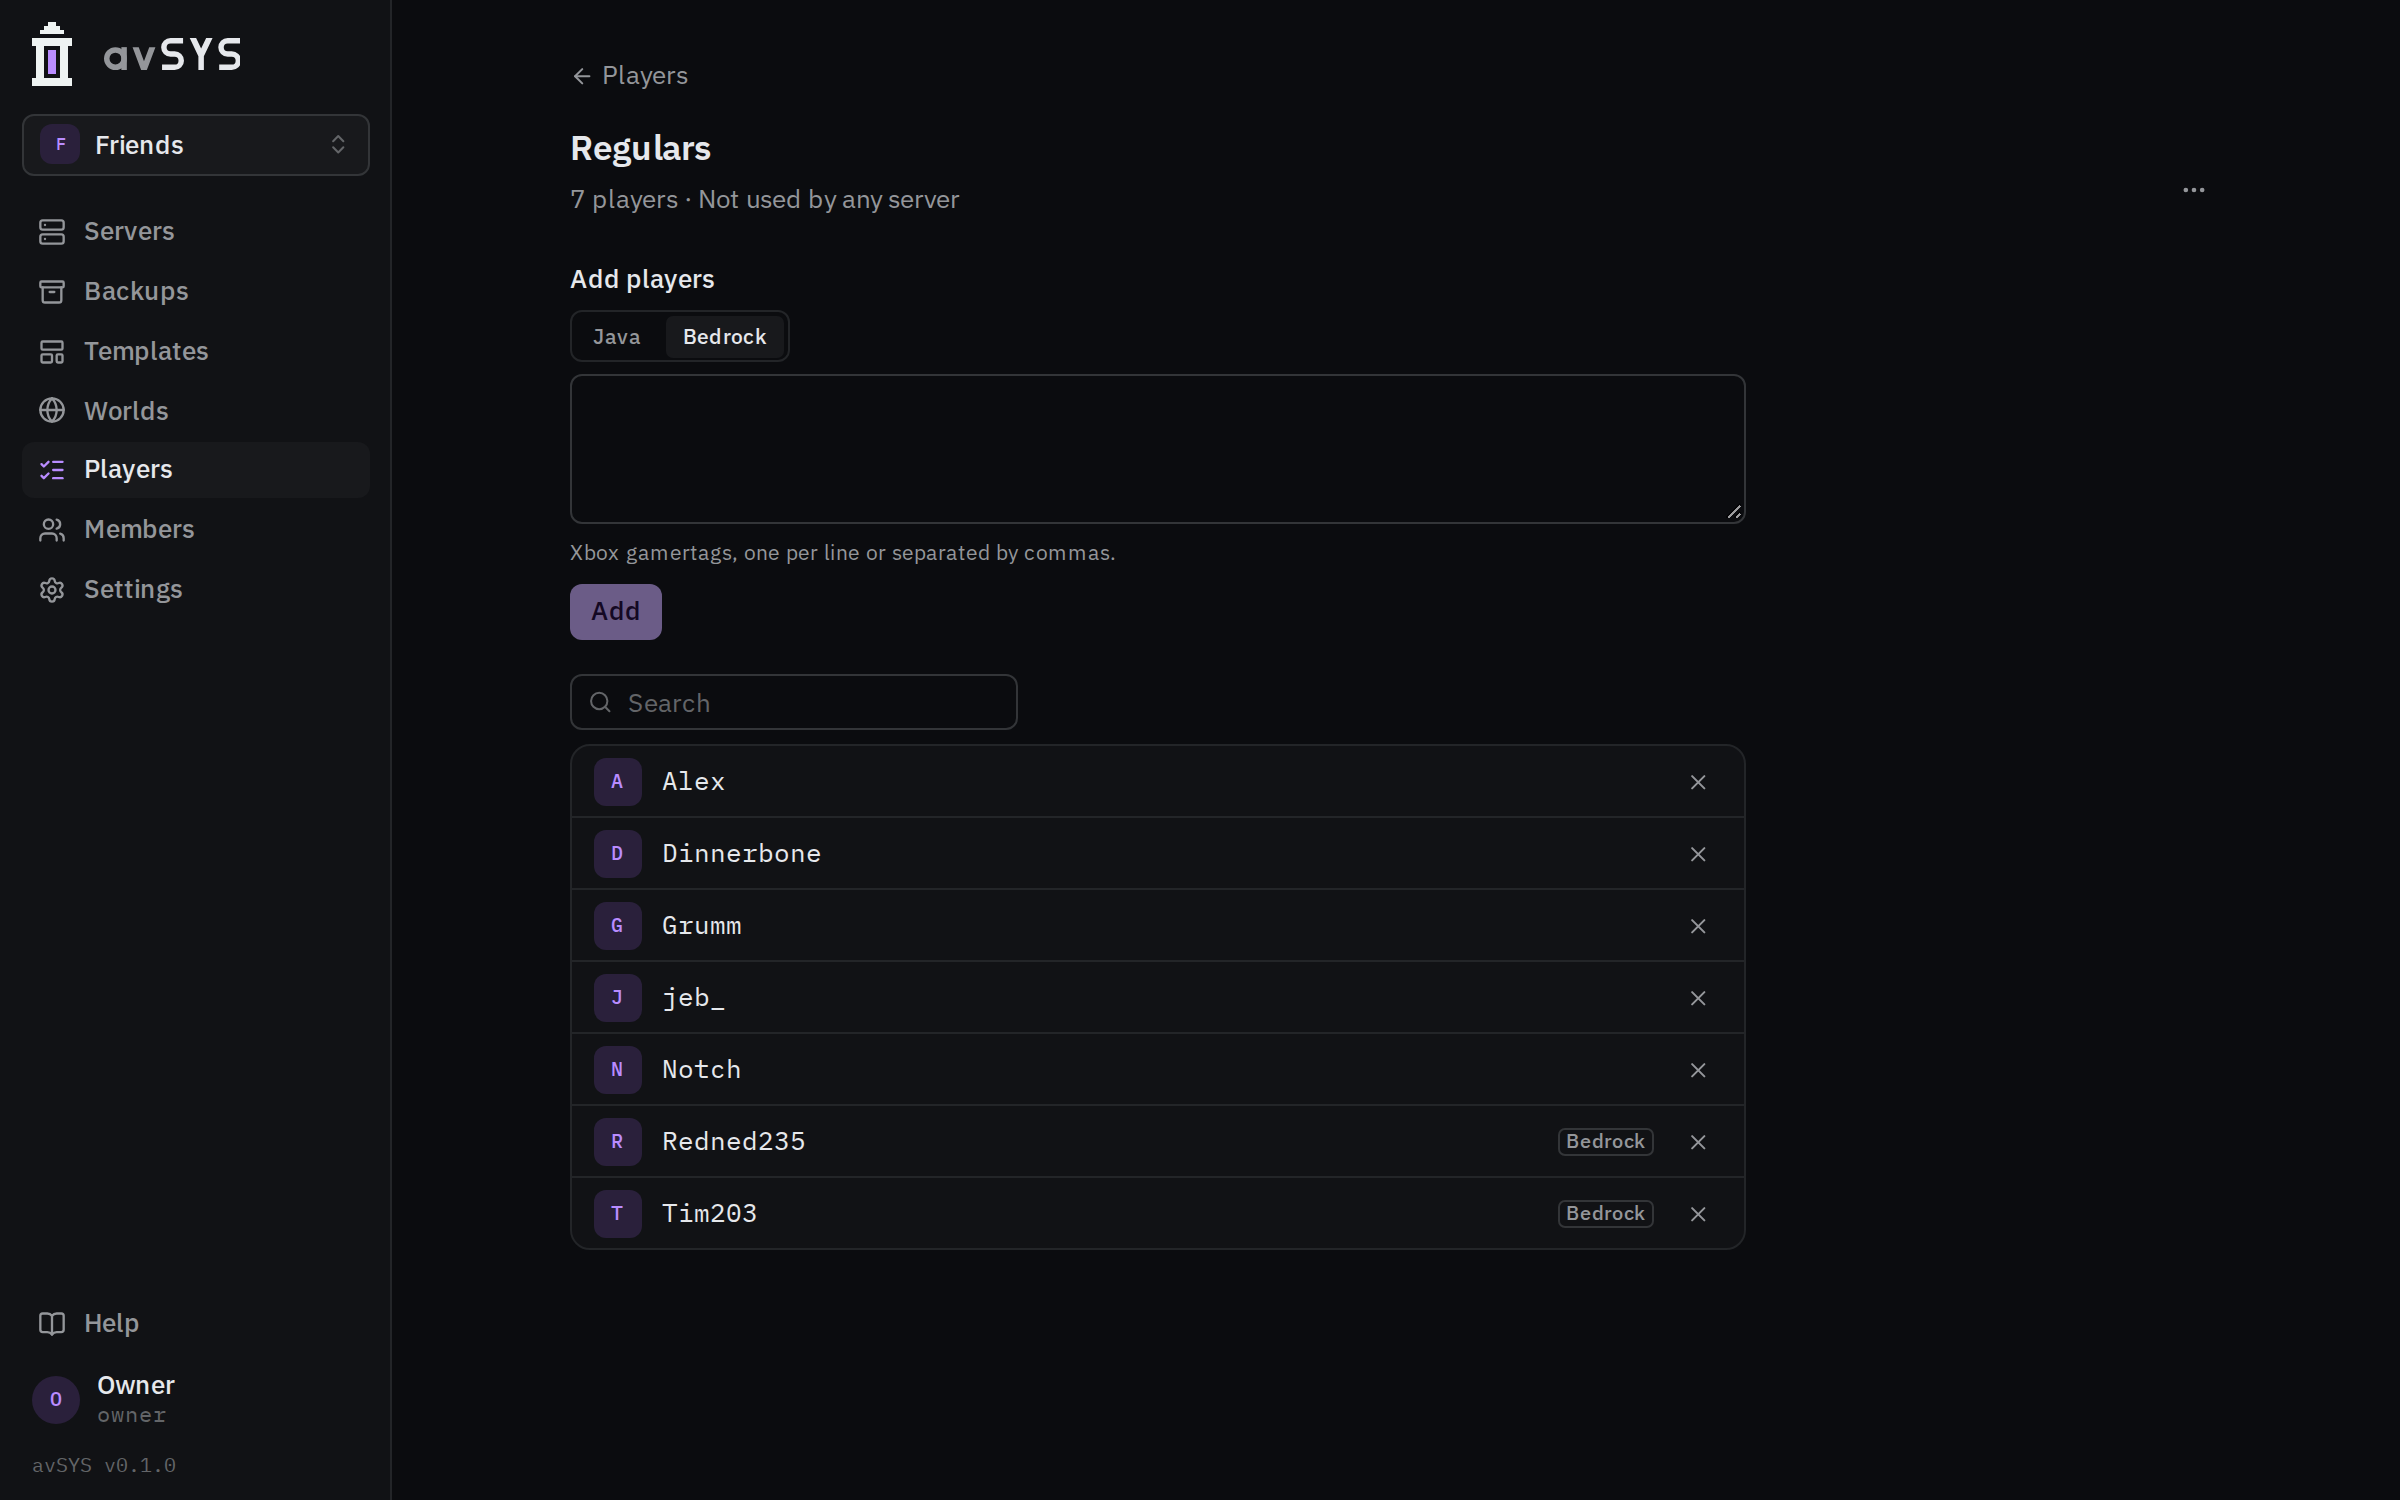
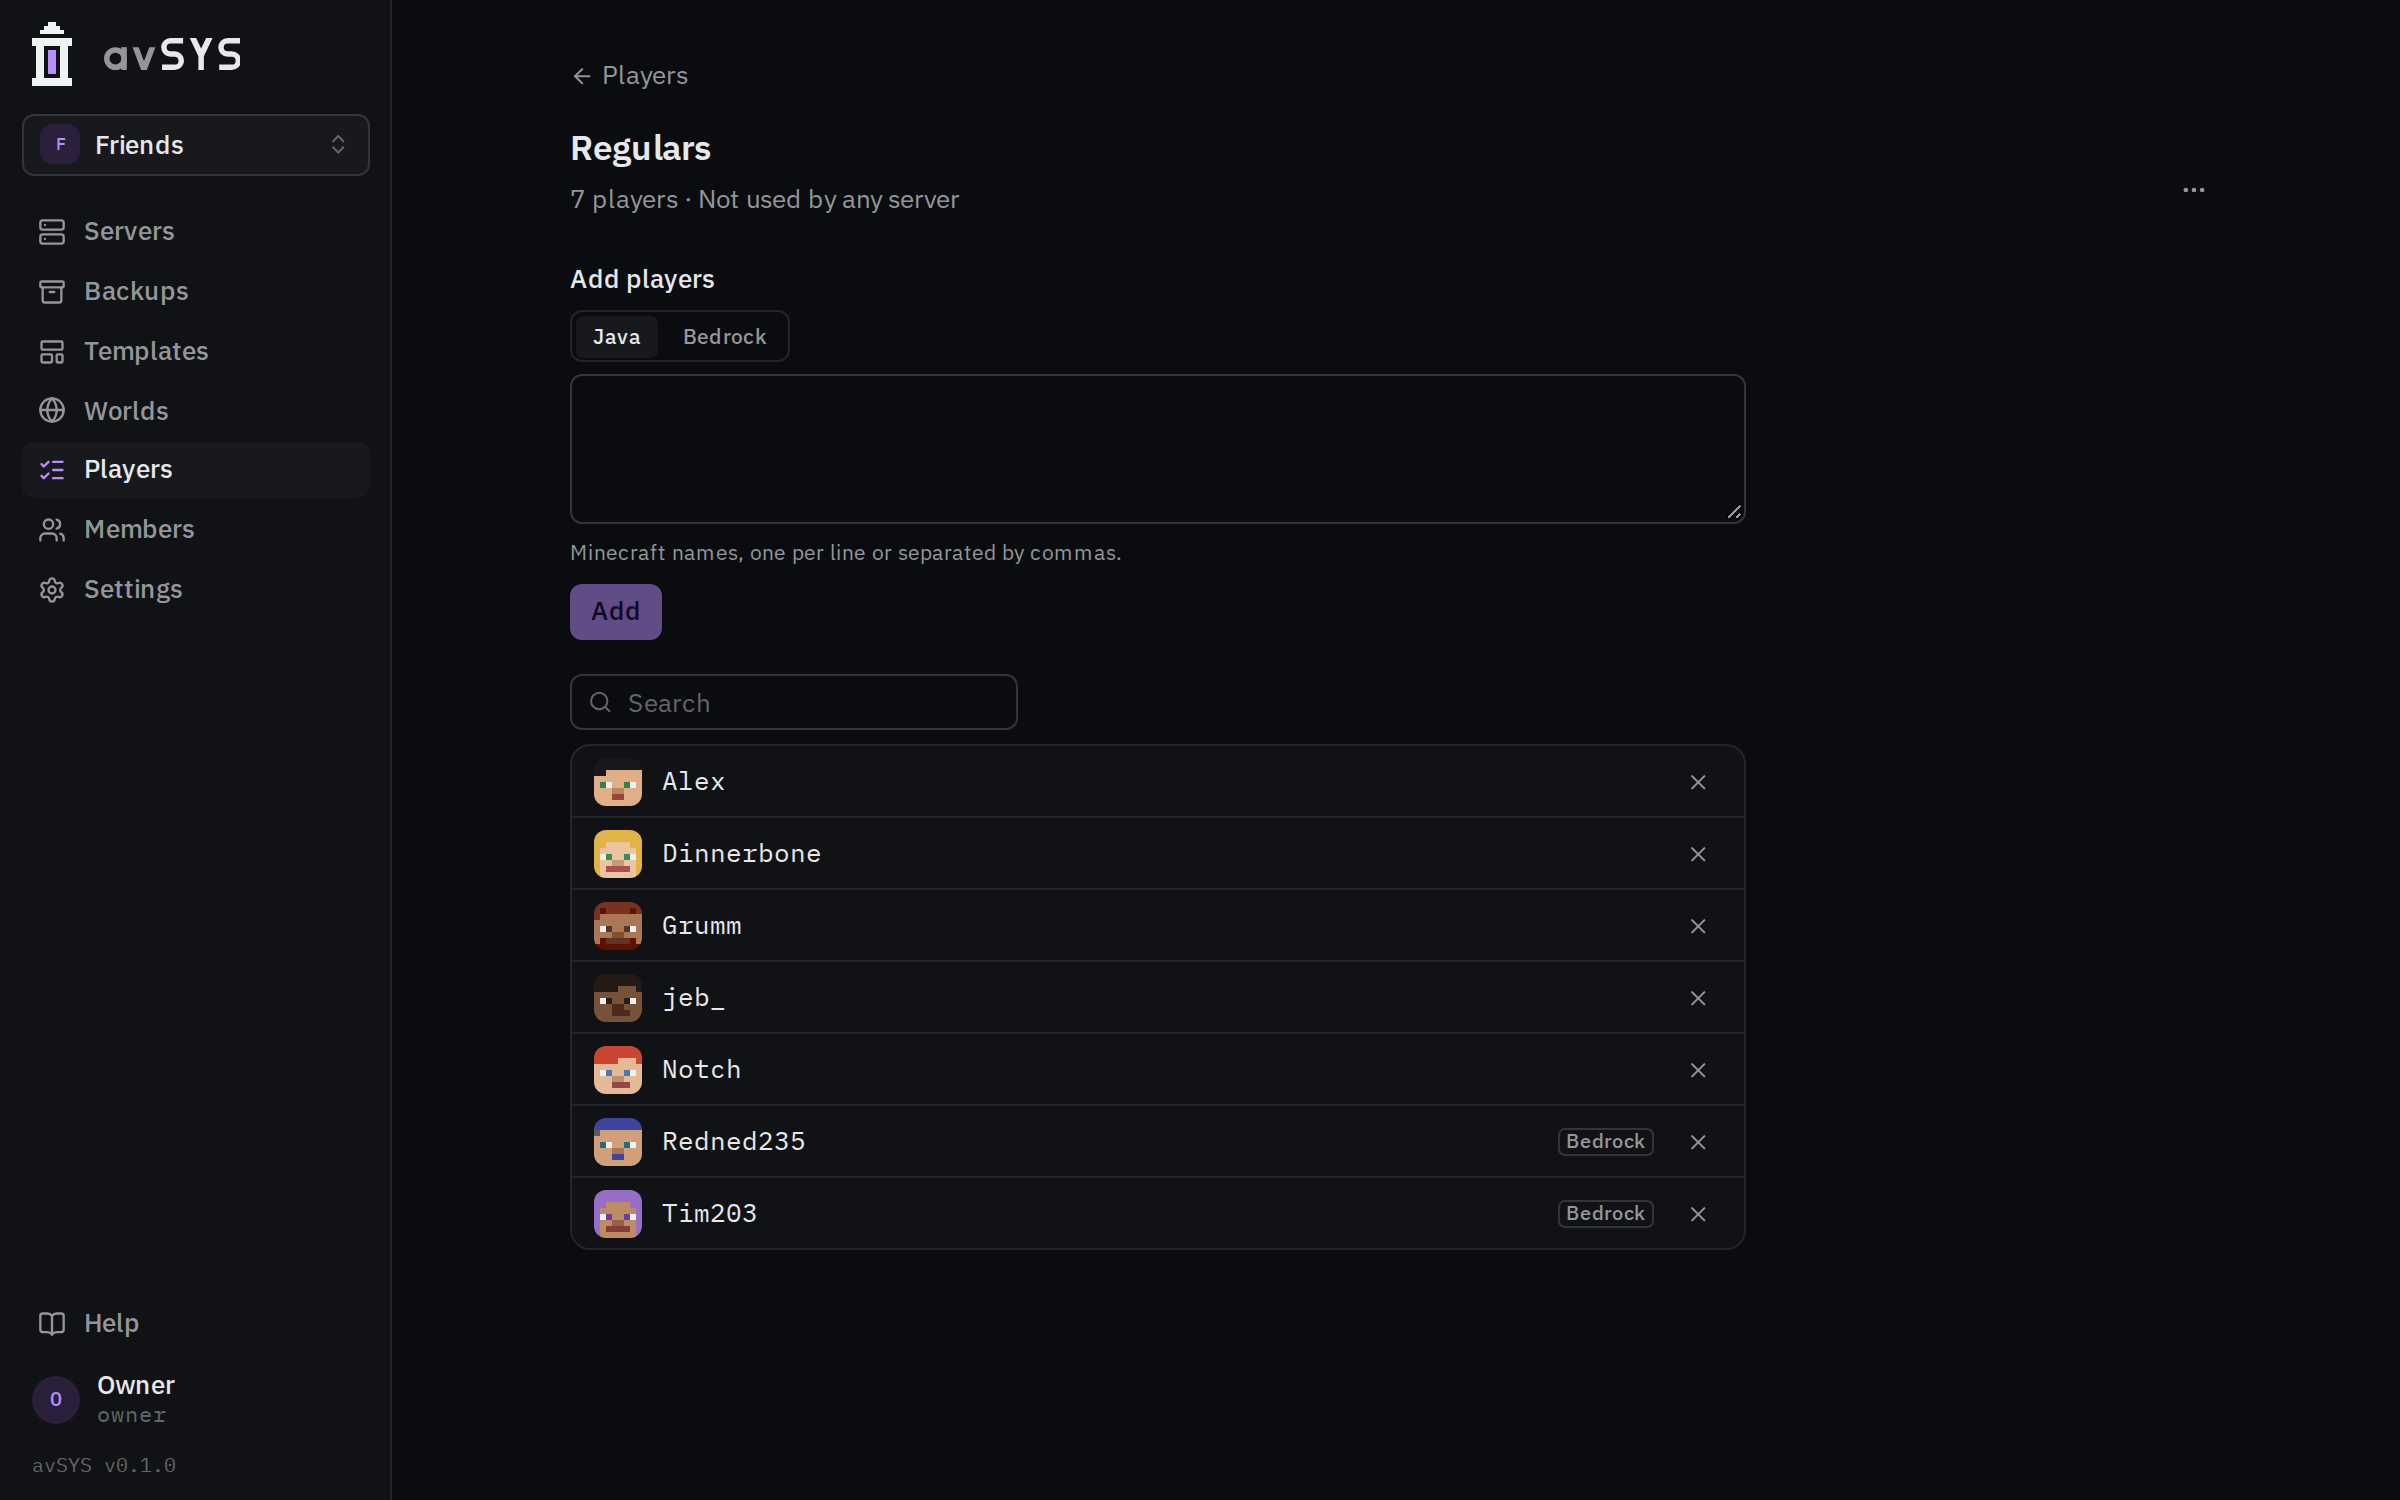
Docs pictures: players have faces, and the panel's sidebar is never cut
The test panel cannot reach Mojang, so players' heads were letters. The
screenshots now answer each head with a face of our own (8 by 8, in
web/screenshots/heads), one per player. The landing cards show each
picture whole, set in from the card's rounded corners, rather than a
closer crop that left out the sidebar.

diff --git a/web/screenshots/docs.spec.ts b/web/screenshots/docs.spec.ts
@@ -1,4 +1,6 @@
 import type { Page } from "@playwright/test";
+import { readdirSync, readFileSync } from "node:fs";
+import { join } from "node:path";
 import { expect, test } from "../tests/panel";
 
 // Pictures of the panel for the documentation, written to docs/images.
@@ -28,8 +30,28 @@ const plugins: [title: string, author: string, description: string, downloads: n
   ["BlueMap", "Blue", "A 3D map of your world, in the browser.", 1_200_000],
 ];
 
+// The test panel cannot reach Mojang for players' skins, so their heads are
+// faces of our own (screenshots/heads, 8 pixels square as the panel makes
+// them): each player one of their own, in the order first asked for.
+const heads = join("screenshots", "heads");
+const faceFiles = readdirSync(heads).sort();
+const faces = new Map<string, Buffer>();
+const faceOf = (uuid: string) => {
+  if (!faces.has(uuid)) faces.set(uuid, readFileSync(join(heads, faceFiles[faces.size % faceFiles.length])));
+  return faces.get(uuid) as Buffer;
+};
+
+/** Waits for this many players' heads to be drawn. */
+const expectFaces = (page: Page, count: number) =>
+  expect
+    .poll(() => page.locator('main img[src*="/players/"]').evaluateAll((imgs) => imgs.filter((i) => (i as HTMLImageElement).naturalWidth > 0).length))
+    .toBe(count);
+
 test.beforeEach(async ({ as, page }) => {
   await as("owner");
+  await page.route("**/api/v1/players/*/head?*", (route) =>
+    route.fulfill({ body: faceOf(new URL(route.request().url()).pathname.split("/").at(-2) ?? ""), contentType: "image/png" }),
+  );
   await page.route("**/api/v1/catalog/modrinth/search?*", async (route) => {
     const res = await (await route.fetch()).json();
     if (/plugin/.test(decodeURIComponent(new URL(route.request().url()).search))) {
@@ -150,18 +172,17 @@ test("content", async ({ page }) => {
   await shot(page, "content-add");
 });
 
-test("players", async ({ page }) => {
-  await page.goto("/o/friends/players");
-  await page.getByRole("button", { name: "New list" }).click();
-  const dialog = page.getByRole("dialog", { name: "New list" });
-  await dialog.getByLabel("Name").fill("Regulars");
-  await dialog.getByLabel("Players").fill("Notch, jeb_, Alex, Dinnerbone, Grumm");
-  await dialog.getByRole("button", { name: "Make list" }).click();
-  await expect(page.getByRole("heading", { name: "Regulars" })).toBeVisible();
-  await page.getByRole("group", { name: "Edition" }).getByRole("button", { name: "Bedrock" }).click();
-  await page.getByLabel("Add players").fill("Tim203, Redned235");
-  await page.getByRole("button", { name: "Add", exact: true }).click();
+test("players", async ({ page, api }) => {
+  const list = await api("owner").post<{ id: string; players: { uuid: string; name: string }[] }>("/orgs/friends/player-lists", {
+    name: "Regulars",
+    names: ["Notch", "jeb_", "Alex", "Dinnerbone", "Grumm"],
+    bedrock: ["Tim203", "Redned235"],
+  });
+  // Faces in the order the list shows them.
+  for (const p of [...list.players].sort((a, b) => a.name.localeCompare(b.name))) faceOf(p.uuid);
+  await page.goto(`/o/friends/players/${list.id}`);
   await expect(page.getByRole("listitem", { name: "Tim203" })).toBeVisible();
+  await expectFaces(page, list.players.length);
   await shot(page, "players");
 });
 

diff --git a/docs/.vitepress/theme/Features.vue b/docs/.vitepress/theme/Features.vue
@@ -54,19 +54,17 @@ defineProps<{
 .card:hover {
   border-color: var(--vp-c-brand-1);
 }
-/* The picture is of the whole window: shown closer, from just right of the
-   panel's sidebar, so what it is about can be read. */
+/* The whole window, as taken, set in from the card's rounded corners so
+   that nothing of it is cut off. */
 .picture {
-  aspect-ratio: 16 / 10;
-  overflow: hidden;
-  border-bottom: 1px solid var(--vp-c-divider);
-  background: #0b0c0f;
+  padding: 12px 12px 0;
 }
 .picture img {
   display: block;
-  width: 140%;
-  max-width: none;
-  margin-left: -32%;
+  width: 100%;
+  aspect-ratio: 16 / 10;
+  border: 1px solid var(--vp-c-divider);
+  border-radius: 6px;
 }
 .text {
   padding: 20px 24px 24px;
